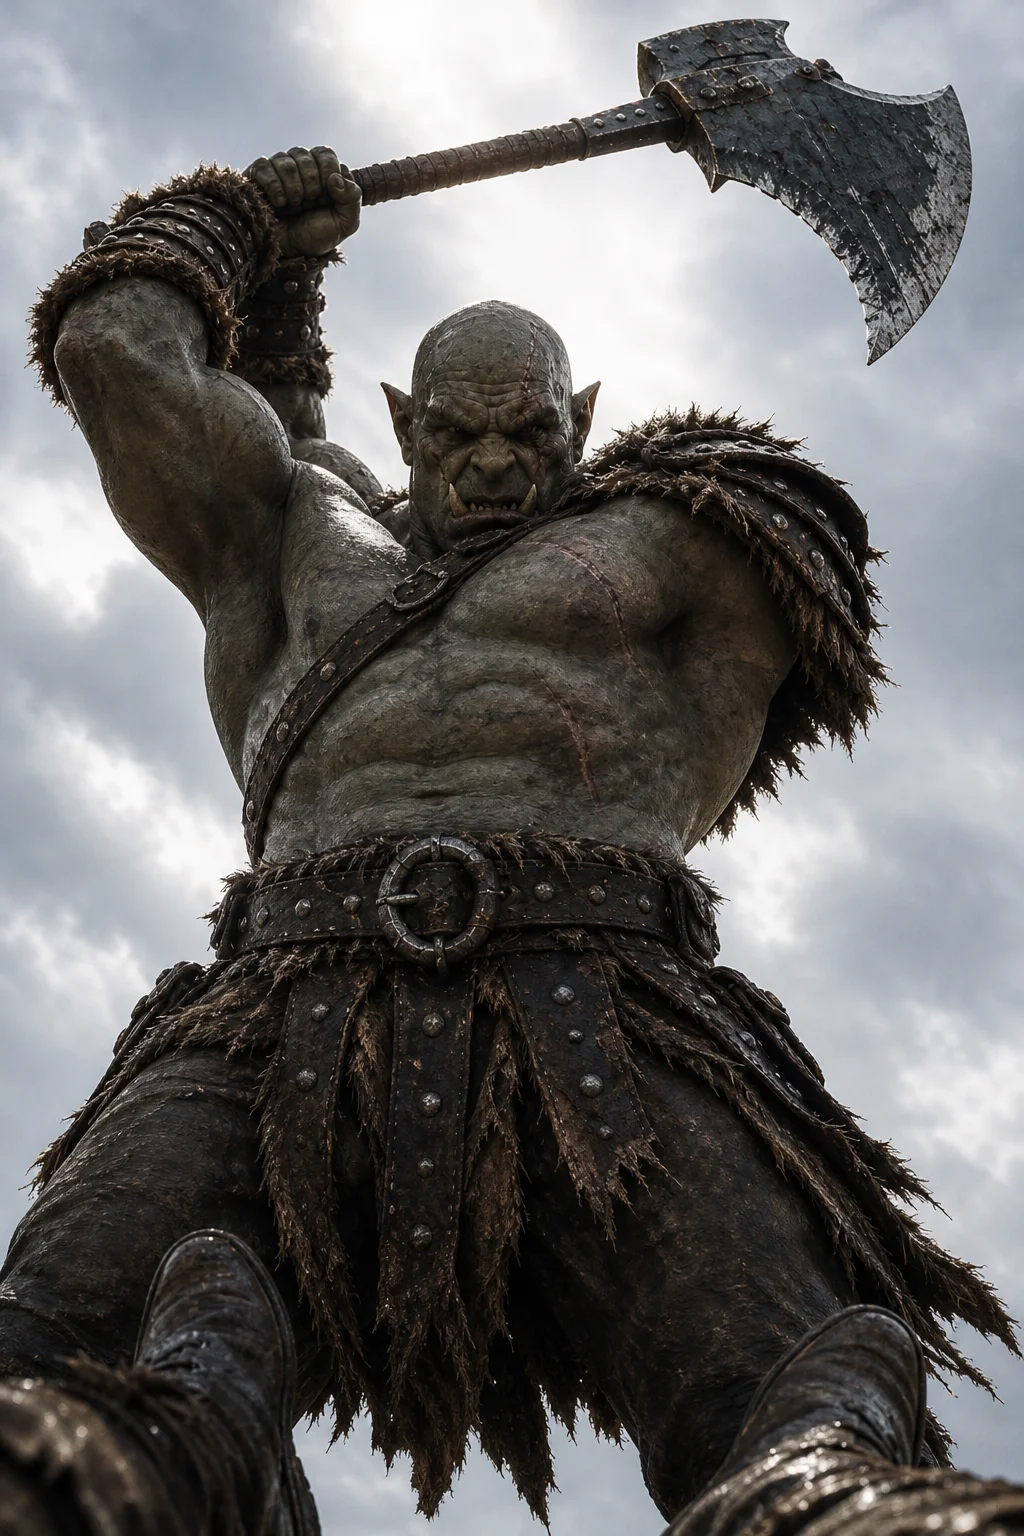
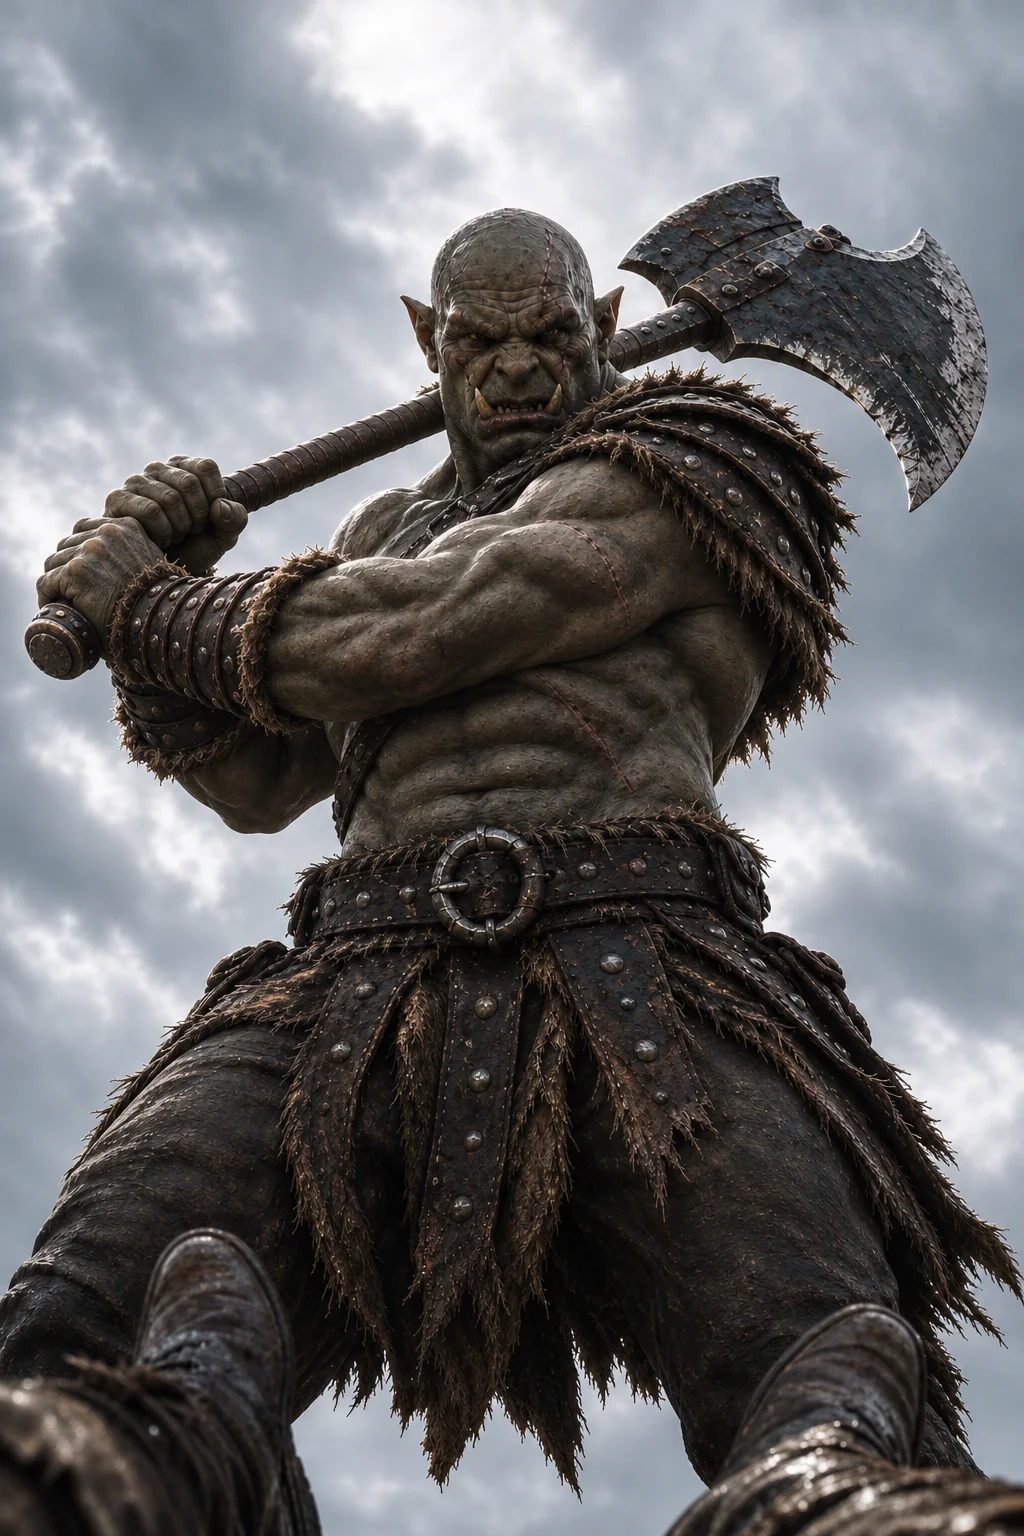
Release v2.14.0 - Issue 21 published

diff --git a/CHANGELOG.md b/CHANGELOG.md
@@ -5,6 +5,11 @@ All notable changes to this site are recorded here. Format loosely follows
 [Semantic Versioning](https://semver.org/) — MAJOR for big structural/hosting
 changes, MINOR for new features or content sections, PATCH for small fixes.
 
+## [2.14.0] - 2026-11-01
+
+### Added
+- Issue 21 ("Issue 21") published to the site, via Panel Studio's "Publish to site" button.
+
 ## [2.13.0] - 2026-11-01
 
 ### Added
